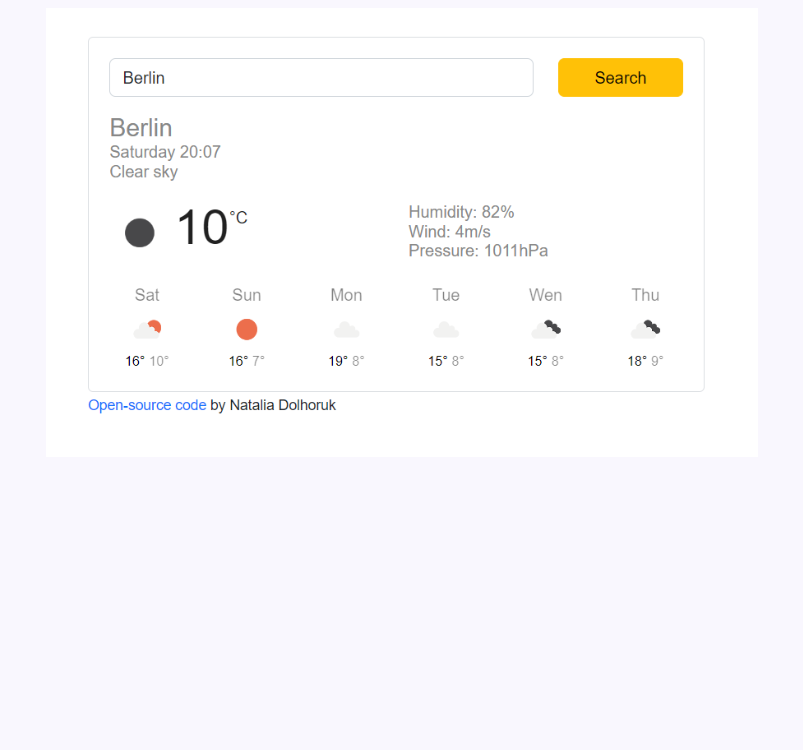
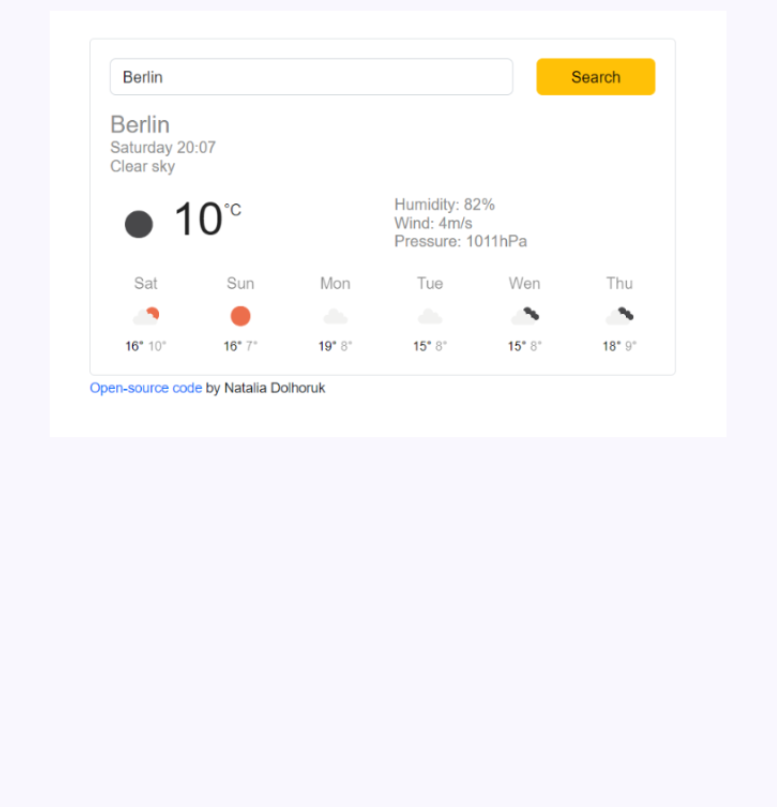
add projects info

diff --git a/work.html b/work.html
@@ -71,7 +71,7 @@
             />
             <h3 class="text-center m-0">Weather Project</h3>
             <p class="text-center text-muted">
-              Built with HTML, CSS and JavaScript
+              Built with HTML5, CSS and JS
             </p>
           </div>
           <div class="col-md-6 mb-4">
@@ -82,7 +82,7 @@
             />
             <h3 class="text-center m-0">Resume site</h3>
             <p class="text-center text-muted">
-              Built with HTML, CSS with React
+              Built with HTML5 and CSS 
             </p>
           </div>
           <div class="col-md-6 mb-4">
@@ -92,7 +92,7 @@
               alt="Cheaddar"
             />
             <h3 class="text-center m-0">Cheaddar Project</h3>
-            <p class="text-center text-muted">Built with HTML and CSS</p>
+            <p class="text-center text-muted">Built with HTML5, CSS and JS</p>
           </div>
           <div class="col-md-6 mb-4">
             <img
@@ -102,7 +102,7 @@
             />
             <h3 class="text-center m-0">Current Weather App</h3>
             <p class="text-center text-muted">
-              Built with HTML, CSS with React
+              Built with HTML, CSS with Reactand JS
             </p>
           </div>
         </div>

diff --git a/photo.html b/photo.html
@@ -13,6 +13,6 @@
     <title>Document</title>
 </head>
 <body class="photo">
-    <img width="570" src="img/weather5.png" alt="" class="d-flex justify-content-center">
+    <img width="570" src="img/weather4.png" alt="" class="d-flex justify-content-center">
 </body>
 </html>
